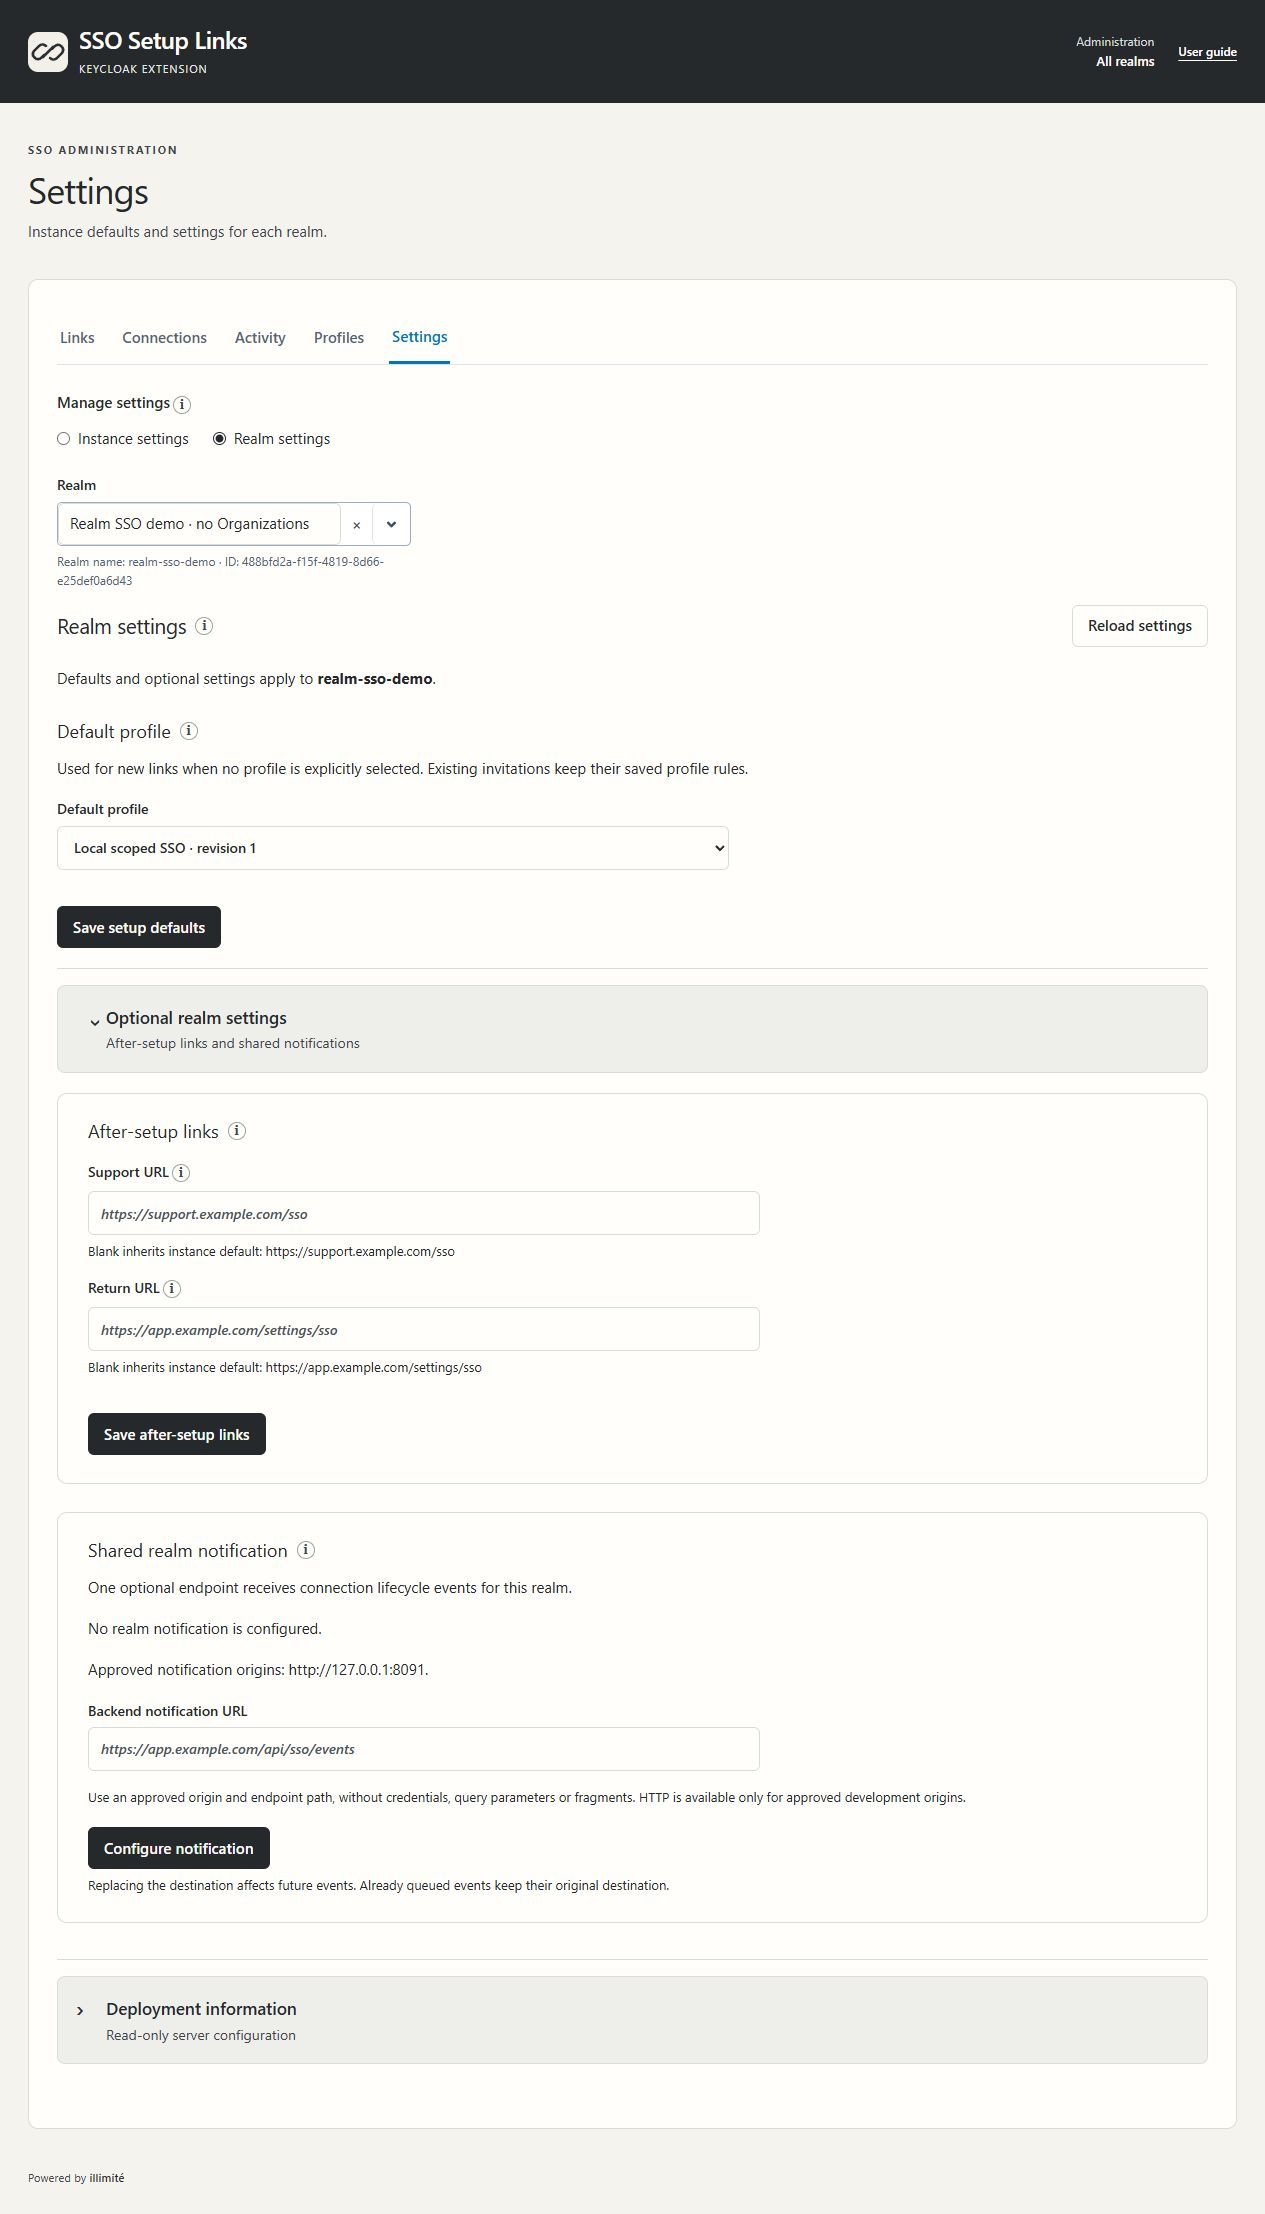
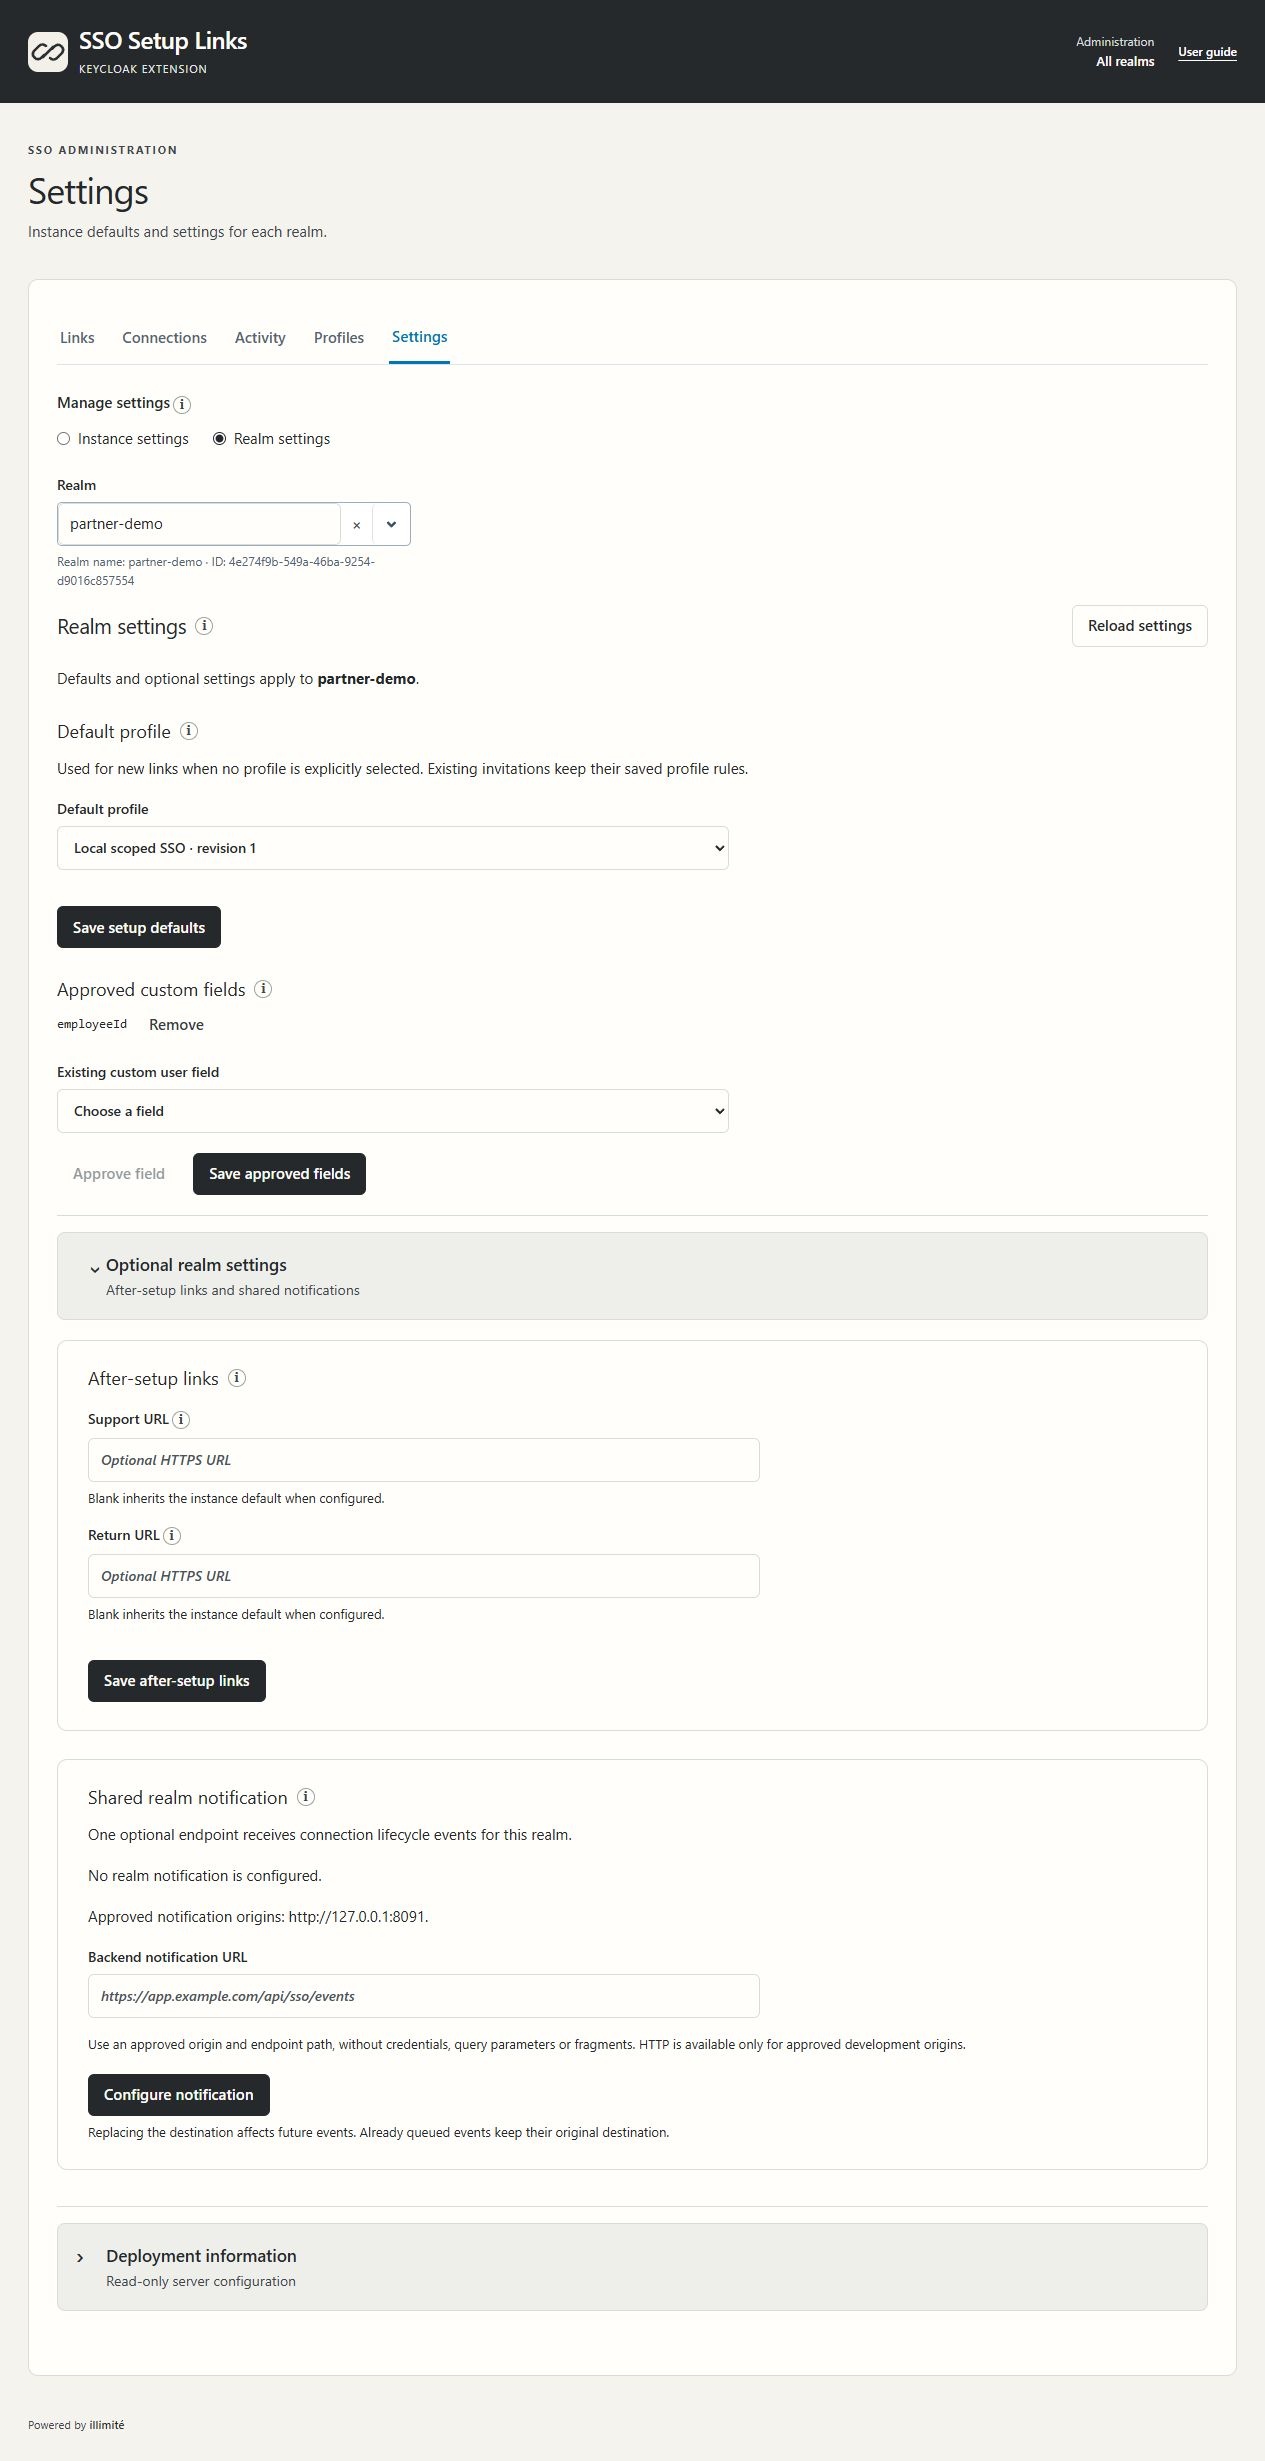
Explain realm-approved mappings and refresh SSO screenshots

diff --git a/keycloak-sso/index.html b/keycloak-sso/index.html
@@ -9,8 +9,8 @@
   <title>SSO Setup Links for Keycloak</title>
   <link rel="canonical" href="https://nkaminsk.dev/keycloak-sso/">
   <link rel="icon" href="assets/favicon.svg" type="image/svg+xml">
-  <link rel="stylesheet" href="styles.css?v=20261101-flow">
-  <script src="walkthrough.js?v=20261101-flow" defer></script>
+  <link rel="stylesheet" href="styles.css?v=20261102-fields">
+  <script src="walkthrough.js?v=20261102-fields" defer></script>
 </head>
 <body>
   <a class="skip-link" href="#main">Skip to content</a>
@@ -104,7 +104,7 @@
             <h3 id="configure-heading">Connect the customer's identity provider.</h3>
             <div data-protocol="oidc">
               <p>Enter the <strong>OpenID configuration URL</strong>, <strong>client ID</strong> and <strong>client secret</strong>. If the invitation uses another authentication method, supply the credential it asks for.</p>
-              <p><strong>Automatic</strong> imports the provider endpoints when you continue. You can upload or paste its configuration document instead. Manual entry is available as a fallback.</p>
+              <p><strong>Automatic</strong> imports the provider endpoints when you continue. You can upload or paste its configuration document instead. Manual entry is an Advanced fallback. When editing a saved OIDC draft, its imported provider URLs stay under Advanced; mapping changes do not require re-entering them.</p>
             </div>
             <div data-protocol="saml">
               <p><strong>Automatic</strong> needs the provider's <strong>SAML metadata URL</strong>, or an uploaded/pasted XML document.</p>
@@ -132,12 +132,13 @@
             <h3 id="mappings-heading">Identify the account. Map its details.</h3>
             <div data-protocol="oidc"><p>OIDC uses <code>sub</code> as the account identifier. Profile mappings copy details such as email and name; they do not replace that ID.</p></div>
             <div data-protocol="saml"><p>Choose a stable <strong>Subject NameID</strong> or identity attribute. A transient NameID needs a separate stable identity attribute. Email or username profile mappings do not replace the identifier.</p></div>
-            <p>Keep the profile's prefilled sources, or edit the names your invitation permits. The provider supplies their values. Optional mappings can be removed; required mappings stay included.</p>
+            <p>Profiles supply the starting mappings and required fields. Edit permitted sources, <strong>Remove</strong> optional mappings, or choose an approved user field and <strong>Add mapping</strong>. Approve extra fields in <a href="#realm-settings">Realm settings</a>. The provider supplies the values; destination fields stay fixed.</p>
+            <p>Mapping rules belong to the connection; values are stored on the user in that realm. Removing a mapping does not erase saved values. Keycloak may still import standard OIDC profile claims automatically.</p>
             <aside class="stage-aside"><strong>Save, then test.</strong> Choose Create connection to save the configuration and open the test screen. Activation happens after testing.</aside>
           </div>
           <div class="protocol-screens">
-            <figure class="product-screen" data-protocol="oidc"><div class="screen-toolbar"><span>Customer wizard / Map claims</span><a href="assets/oidc-mappings-current.jpg" class="enlarge-link" data-enlarge data-caption="OIDC — account identity and profile mappings" target="_blank" rel="noopener">View full screenshot ↗</a></div><div class="screen-scroll"><img src="assets/oidc-mappings-current.jpg" width="1265" height="1223" alt="OIDC account identifier guidance and prefilled editable profile claim mappings." loading="lazy"></div><figcaption>OIDC · profile claims and account identity</figcaption></figure>
-            <figure class="product-screen" data-protocol="saml"><div class="screen-toolbar"><span>Customer wizard / Map claims</span><a href="assets/saml-mappings-current.jpg" class="enlarge-link" data-enlarge data-caption="SAML — stable identity and profile mappings" target="_blank" rel="noopener">View full screenshot ↗</a></div><div class="screen-scroll"><img src="assets/saml-mappings-current.jpg" width="1265" height="1330" alt="SAML stable identity source, requested NameID format and editable profile attribute mappings." loading="lazy"></div><figcaption>SAML · stable identity and profile attributes</figcaption></figure>
+            <figure class="product-screen" data-protocol="oidc"><div class="screen-toolbar"><span>Customer wizard / Map claims</span><a href="assets/oidc-mappings-current.jpg?v=20261102-fields" class="enlarge-link" data-enlarge data-caption="OIDC — profile defaults and an added realm-approved field" target="_blank" rel="noopener">View full screenshot ↗</a></div><div class="screen-scroll"><img src="assets/oidc-mappings-current.jpg?v=20261102-fields" width="1265" height="1529" alt="OIDC profile defaults, a required email mapping, and an optional employeeId field added from the realm-approved list." loading="lazy"></div><figcaption>OIDC · profile defaults plus an approved custom field</figcaption></figure>
+            <figure class="product-screen" data-protocol="saml"><div class="screen-toolbar"><span>Customer wizard / Map claims</span><a href="assets/saml-mappings-current.jpg?v=20261102-fields" class="enlarge-link" data-enlarge data-caption="SAML — stable identity and realm-approved custom mappings" target="_blank" rel="noopener">View full screenshot ↗</a></div><div class="screen-scroll"><img src="assets/saml-mappings-current.jpg?v=20261102-fields" width="1265" height="1635" alt="SAML stable identity source, required profile defaults and an added optional employeeId mapping." loading="lazy"></div><figcaption>SAML · stable identity and approved user fields</figcaption></figure>
           </div>
         </article>
 
@@ -257,17 +258,17 @@
         <article id="instance-profiles"><h3>Instance profiles</h3><p>Save shared setup rules for use across realms. A link still targets one realm and its authorized organizations.</p>
           <figure class="product-screen"><div class="screen-toolbar"><span>Profiles <span aria-hidden="true">/</span> Instance profiles</span><a href="assets/instance-profiles-current.jpg" class="enlarge-link" data-enlarge data-caption="Profiles — Instance profiles with the explicit scope switch" target="_blank" rel="noopener">View full screenshot <span aria-hidden="true">↗</span></a></div><div class="screen-scroll"><img src="assets/instance-profiles-current.jpg" width="1265" height="881" alt="Profiles workspace with Instance profiles selected and a separate Realm profiles switch." loading="lazy"></div><figcaption>Shared profiles · instance administrator scope</figcaption></figure>
         </article>
-        <article id="realm-profiles"><h3>Realm profiles</h3><p>Manage setup rules for the chosen realm. Switch back from Instance profiles with the same realm ready to use.</p>
+        <article id="realm-profiles"><h3>Realm profiles</h3><p>Profiles supply default mappings, required fields and source-editing rules. A shared instance profile can be reused across realms; custom fields still need to exist and be approved in each destination realm for new connections.</p>
           <figure class="product-screen"><div class="screen-toolbar"><span>Profiles <span aria-hidden="true">/</span> Realm profiles</span><a href="assets/realm-profiles-current.jpg" class="enlarge-link" data-enlarge data-caption="Profiles — Realm profiles with the selected realm preserved" target="_blank" rel="noopener">View full screenshot <span aria-hidden="true">↗</span></a></div><div class="screen-scroll"><img src="assets/realm-profiles-current.jpg" width="1265" height="1162" alt="Profiles workspace with Realm profiles selected and the chosen realm visible beside the scope controls." loading="lazy"></div><figcaption>Realm profiles · rules for the chosen realm</figcaption></figure>
         </article>
         <article id="instance-settings"><h3>Instance settings</h3><p>Set shared defaults once. Under <strong>After-setup links</strong>, enter an optional full HTTPS <strong>Support URL</strong> for help and <strong>Return URL</strong> for your application. Each realm inherits both values.</p>
           <figure class="product-screen"><div class="screen-toolbar"><span>Settings <span aria-hidden="true">/</span> Instance settings</span><a href="assets/instance-settings-current.jpg" class="enlarge-link" data-enlarge data-caption="Settings — Instance defaults and optional after-setup URLs" target="_blank" rel="noopener">View full screenshot <span aria-hidden="true">↗</span></a></div><div class="screen-scroll"><img src="assets/instance-settings-current.jpg" width="1265" height="1142" alt="Instance settings with optional Support URL and Return URL fields under After-setup links." loading="lazy"></div><figcaption>Instance defaults · configure the actual destination URLs</figcaption></figure>
         </article>
-        <article id="realm-settings"><h3>Realm settings</h3><p>Leave a URL blank to inherit its instance value, or override either field for this realm. An explicit profile URL wins. Both optional actions appear after successful setup or update and open only when clicked.</p>
-          <figure class="product-screen"><div class="screen-toolbar"><span>Settings <span aria-hidden="true">/</span> Realm settings</span><a href="assets/realm-settings-current.jpg" class="enlarge-link" data-enlarge data-caption="Settings — Realm URL overrides and inherited instance defaults" target="_blank" rel="noopener">View full screenshot <span aria-hidden="true">↗</span></a></div><div class="screen-scroll"><img src="assets/realm-settings-current.jpg" width="1265" height="2214" alt="Realm settings showing separate Support URL and Return URL overrides with inherited instance defaults." loading="lazy"></div><figcaption>Realm overrides · each URL inherits independently</figcaption></figure>
+        <article id="realm-settings"><h3>Realm settings</h3><p>Under <strong>Approved custom fields</strong>, choose existing fields from this realm’s Keycloak User profile. Customers can add them during new connection setup, even when they are absent from profile defaults. The extension does not create user fields. Each invitation keeps its saved list; changes affect future invitations.</p>
+          <figure class="product-screen"><div class="screen-toolbar"><span>Settings <span aria-hidden="true">/</span> Realm settings</span><a href="assets/realm-settings-current.jpg?v=20261102-fields" class="enlarge-link" data-enlarge data-caption="Settings — realm-approved custom fields and optional completion links" target="_blank" rel="noopener">View full screenshot <span aria-hidden="true">↗</span></a></div><div class="screen-scroll"><img src="assets/realm-settings-current.jpg?v=20261102-fields" width="1265" height="2461" alt="Realm settings with employeeId approved for new connection mappings and separate optional Support and Return URLs." loading="lazy"></div><figcaption>Realm settings · custom field approval and optional completion links</figcaption></figure>
         </article>
       </div>
-      <p class="settings-note">Resolved completion URLs are saved into each new invitation, including links without a profile. Existing invitations keep their saved URLs.</p>
+      <p class="settings-note">For new connections, missing or unapproved required profile fields prevent link creation; unavailable optional defaults are omitted. Update links retain their profile’s existing mapping rules. Optional Support and Return URLs inherit independently from instance settings and appear after successful setup; a profile can override either destination.</p>
     </section>
 
     <section class="shell section-space" id="api" aria-labelledby="api-heading">
@@ -327,11 +328,21 @@ Content-Type: application/json</code></pre>
         <p>For broader connection changes, use <code>purpose: "MAINTAIN"</code> with a saved profile that permits the changes and requires two tests.</p>
         <p>To add organizations directly, send <code>{"organizationIds":["&lt;additional-org-id&gt;"]}</code> to <code>POST /connections/&lt;immutable-connection-id&gt;/organizations</code>. This adds native associations without removing existing ones or issuing an invitation.</p>
       </details>
+      <details class="api-more" id="mapping-api">
+      <summary>Optional: approve custom fields by API</summary>
+      <p>Realm owners can read the available and approved custom fields, then save the names customers may add to new connections. This is separate from creating an invitation; its realm and organization scope stays the same.</p>
+      <pre class="api-code"><code>GET /admin/realms/partner-demo/idp-setup-links/profiles/settings
+PUT /admin/realms/partner-demo/idp-setup-links/profiles/settings/mapping-fields
+Content-Type: application/json
+
+{"approvedMappingFields":["employeeId","department"]}</code></pre>
+      <p>GET returns <code>availableMappingFields</code> and <code>approvedMappingFields</code>. Approve up to 32 existing custom fields; an empty list clears approval. Instance settings do not define or provision fields. A missing or unapproved required profile field blocks CREATE with <code>required_mapping_unavailable</code>.</p>
+      </details>
     </section>
 
     <section class="installation-section section-space" id="installation" aria-labelledby="installation-heading">
       <div class="shell installation-grid">
-        <div class="section-heading"><p class="eyebrow">Installation footprint</p><h2 id="installation-heading">One provider JAR.<br>Your existing Keycloak.</h2><p>Both interfaces ship with the extension. No separate frontend service, plugin database or runtime Node installation is required.</p><p class="baseline-label">Qualified baseline <strong>Keycloak 26.8.1</strong></p></div>
+        <div class="section-heading"><p class="eyebrow">Installation footprint</p><h2 id="installation-heading">One provider JAR.<br>Your existing Keycloak.</h2><p>Both interfaces ship with the extension. No separate frontend service, plugin database or runtime Node installation is required.</p><p class="baseline-label">Tested baseline <strong>Keycloak 26.8.1</strong></p></div>
         <div class="install-details">
           <ol class="install-list">
             <li><span>01</span><div><h3>Add the extension to your server image.</h3><p>Place the JAR in Keycloak's <code>providers/</code> directory, then run <code>bin/kc.sh build</code> before starting the optimized server.</p></div></li>
@@ -346,7 +357,7 @@ Content-Type: application/json</code></pre>
 
   </main>
 
-  <footer class="site-footer shell"><div><span class="footer-wordmark">SSO Setup Links</span><p>A Keycloak extension by illimité.</p></div><p>Development preview · 1 November 2026<br>Real interfaces. Example data.</p></footer>
+  <footer class="site-footer shell"><div><span class="footer-wordmark">SSO Setup Links</span><p>A Keycloak extension by illimité.</p></div><p>Development preview · 2 November 2026<br>Real interfaces. Example data.</p></footer>
 
   <dialog class="image-dialog" aria-labelledby="image-dialog-title" data-image-dialog>
     <div class="dialog-toolbar"><h2 id="image-dialog-title">Product screenshot</h2><button class="button button-secondary" type="button" data-close-image autofocus>Close <span aria-hidden="true">×</span></button></div>
